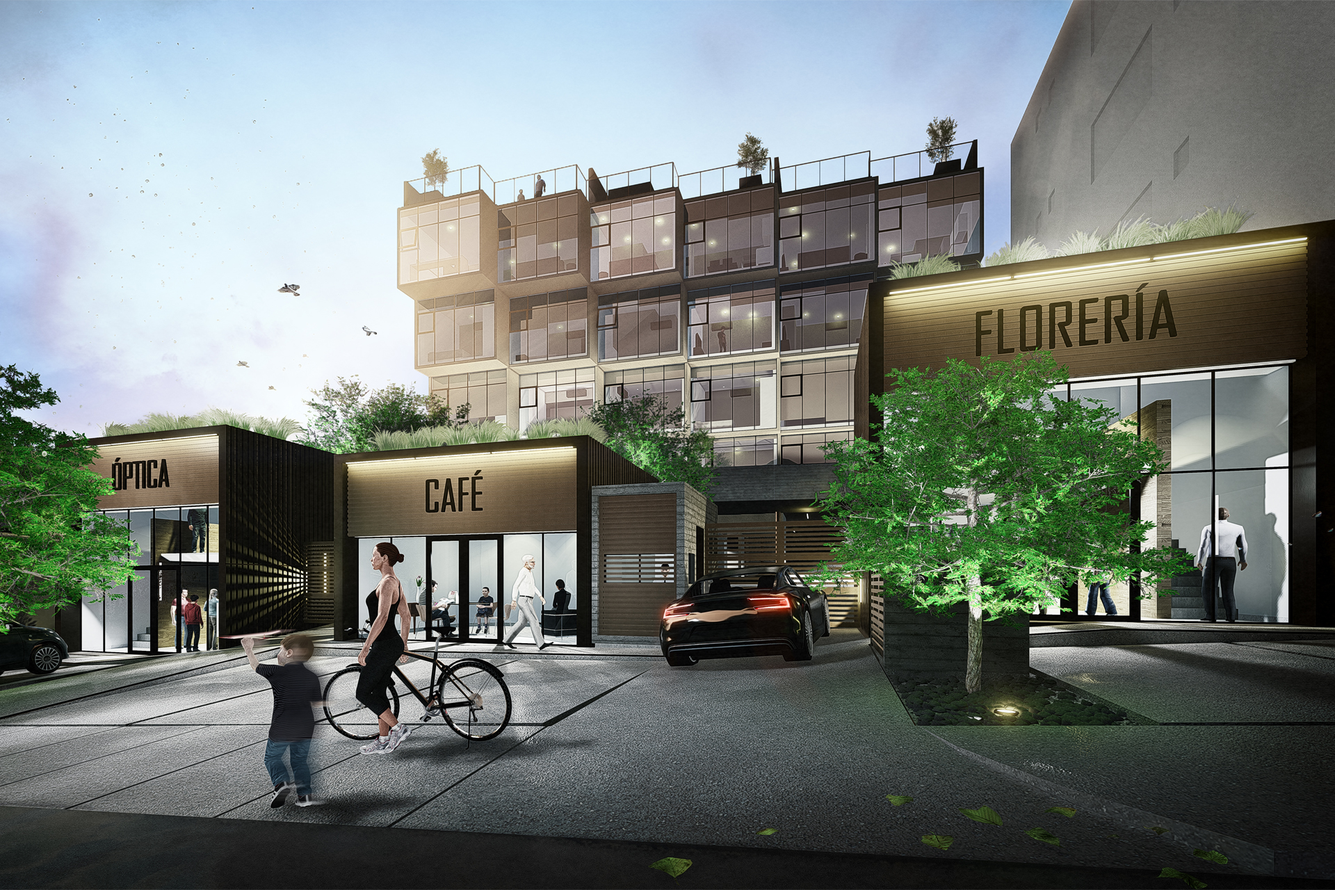
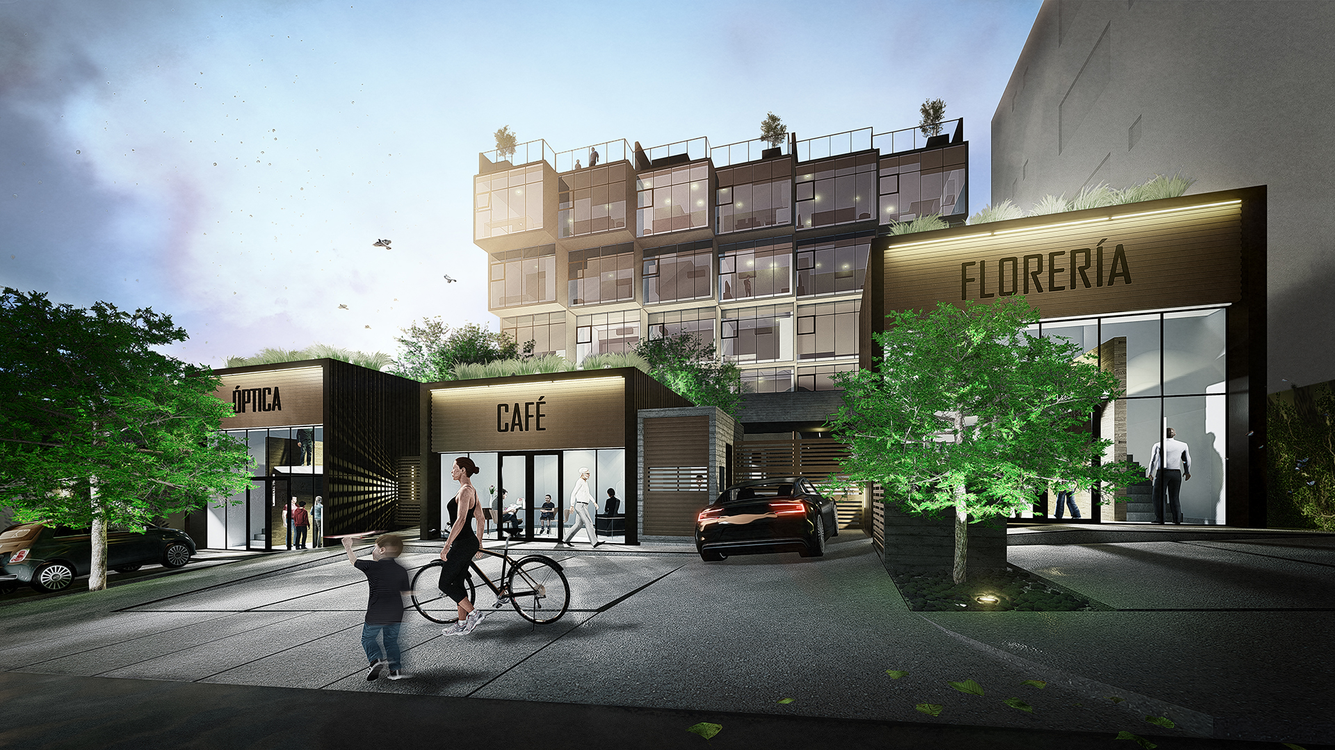
1
1

diff --git a/marina.html b/marina.html
@@ -9,7 +9,7 @@ http-equiv="X-UA-Compatible">
      
 <META http-equiv="X-UA-Compatible" content="IE=edge,chrome=1">         
 <META name="viewport" content="width=device-width, initial-scale=1">         <!-- This is Squarespace. --><!-- marinaabramovic-institute --> 
-<META charset="utf-8"> <TITLE>a111Marina Abramovic Institute</TITLE> <LINK href="https://static1.squarespace.com/static/523328b5e4b0a7c4005929ca/t/523337b4e4b0d1c20a191259/favicon.ico" 
+<META charset="utf-8"> <TITLE>b111Marina Abramovic Institute</TITLE> <LINK href="https://static1.squarespace.com/static/523328b5e4b0a7c4005929ca/t/523337b4e4b0d1c20a191259/favicon.ico" 
 rel="shortcut icon" type="image/x-icon"> <LINK href="https://mai.art/" rel="canonical"> 
 <META content="Marina Abramovic Institute" property="og:site_name"> 
 <META content="Marina Abramovic Institute" property="og:title"> 
@@ -281,16 +281,16 @@ src="./new_files/marinaTest.jpg"
 alt="IMG_0880.JPG" /&gt;</NOSCRIPT><IMG class="thumb-image" alt="IMG_0880.JPG" 
 data-src="./new_files/marinaTest.jpg" 
 data-type="image" data-image-id="5c056f60575d1f9dfe83116d" data-load="false" 
-data-image-focal-point="0.5,0.5" data-image-dimensions="2048x1365" data-image="./new_files/marinaTest.jpg">   
+data-image-focal-point="0.5,0.5" data-image-dimensions="1920x1080" data-image="./new_files/marinaTest.jpg">   
 <DIV class="color-overlay"></DIV></DIV>
 
 <DIV class="slide content-fill" data-type="image" 
 data-click-through-url=""><NOSCRIPT>&lt;img 
-src="./new_files/marinaTest.jpg" 
+src="./new_files/marinaTest2.jpg" 
 alt="IMG_0880.JPG" /&gt;</NOSCRIPT><IMG class="thumb-image" alt="IMG_0880.JPG" 
 data-src="./new_files/marinaTest.jpg" 
 data-type="image" data-image-id="5c056f60575d1f9dfe83116d" data-load="false" 
-data-image-focal-point="0.5,0.5" data-image-dimensions="1920x1280" data-image="./new_files/marinaTest.jpg">   
+data-image-focal-point="0.5,0.5" data-image-dimensions="1920x1080" data-image="./new_files/marinaTest.jpg">   
 <DIV class="color-overlay"></DIV></DIV>
 
 
